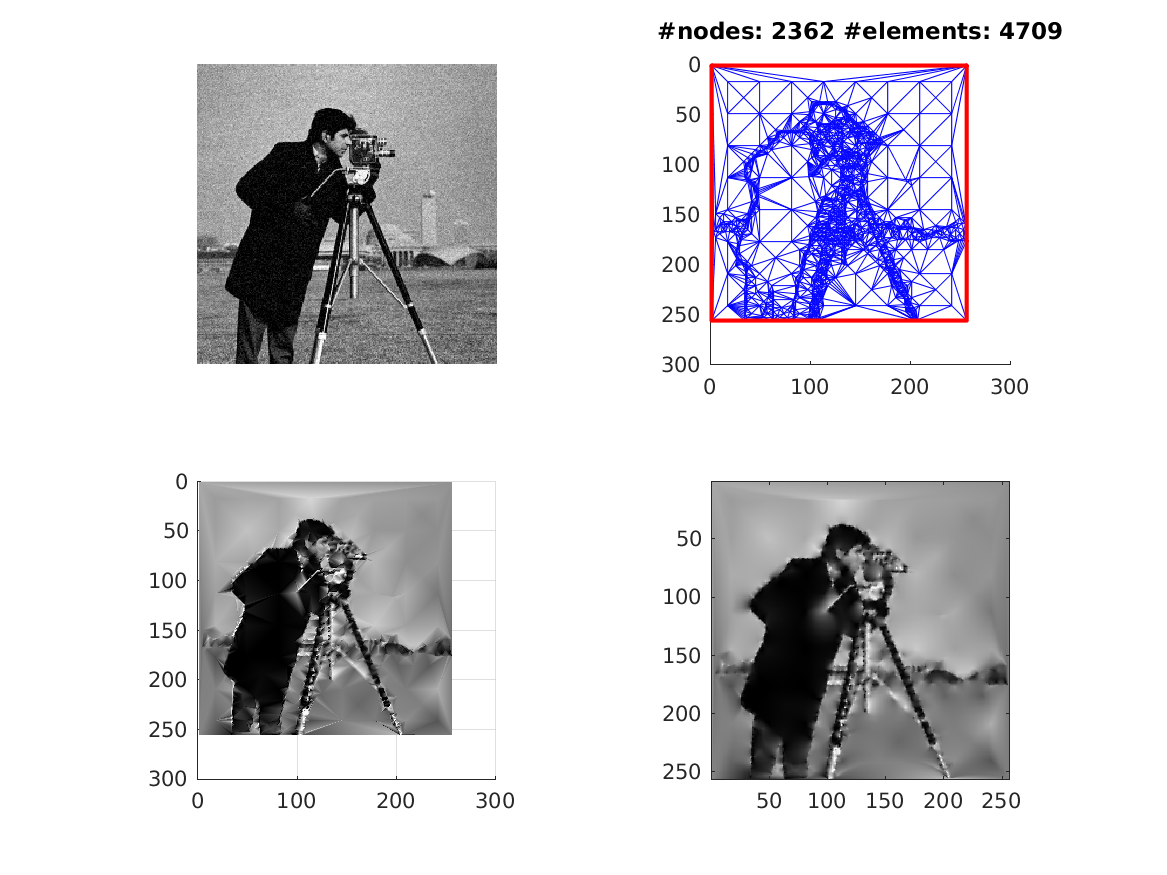
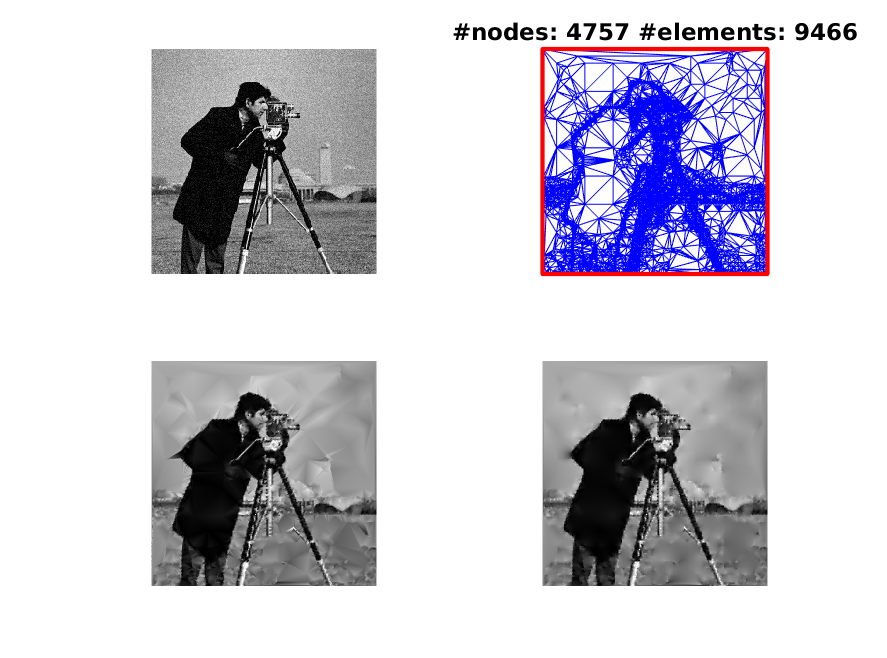
Worked on everything during meeting.

diff --git a/peronamalik/pm_tri.m b/peronamalik/pm_tri.m
@@ -1,40 +1,7 @@
-clear all; clc; close all;
+function [u_ani, A_iso, M, u_iso, g_ani, A_ani] = pm_tri(u, tri, p, edge, sigma, tau, g)
 
-addpath('../grids');
-addpath('../img');
-addpath('../quadrature');
-
-% Load image.
-U = mat2gray(imread('cameraman.tif'));
-U = imresize(U, 1);
-
-% Parameters for anisotropic diffusion.
-sigma = 0.00001;
-tau = 0.005;
-g = @(x) exp(-(x./2).^2);
-
-% Order of quadrature.
+% Quadrature rule.
 Nq = 1;
-
-% Grid generation.
-[nx1, nx2] = size(U);
-% [p, tri, edge] =  getSquareTri(nx1,nx2);
-% u = U(:);
-% [p, tri, edge] =  getSquareTri_swp(nx1, nx2, u);
-[p, tri, edge, p_idx] =  getVarigrid(U, 0.001, 50);
-
-% Image as vector.
-U = U(sub2ind(size(U), p_idx(:,1), p_idx(:,2)));
-u = U(:);
-
-%dx1 = 1/(nx1-1);
-%dx2 = 1/(nx2-1);
-
-% Verify grid.
-figure;
-% imtrisurf(tri, p, u);
-figure;
-triplot(tri, p(:,1), p(:,2));
 
 % Number of nodes.
 n = size(p,1);
@@ -74,20 +41,12 @@ for k = 1:N
             
             f_mass = @(x) (phi(:,i)' * [x; 1]) * (phi(:,j)' * [x; 1]);
             M(nid(i),nid(j)) = M(nid(i),nid(j)) + quadrature2D(p1,p2,p3,Nq,f_mass);
-            
-            % g_rhs = @(x) U(nid(j)) * (phi(:,i)' * [x; 1]) * (phi(:,j)' * [x; 1]);
-            % b(nid(i)) = b(nid(i)) +  quadrature2D(p1,p2,p3,Nq,g_rhs);
         end
     end
 end
 disp(['The loop took ' num2str(toc) 's.']);
 
 u_iso = (M + sigma * A_iso) \ (M*u);
-
-figure;
-imtrisurf(tri, p, u_iso);
-
-return
 
 % Compute the diffusion coefficients.
 d = zeros(N,2);
@@ -112,18 +71,16 @@ for k = 1:N
     phi(:,2) = lhs \ [0; 1; 0];
     phi(:,3) = lhs \ [0; 0; 1];
     
+    % See top of p. 228.
     for i = 1:3
         d(k,:) = d(k,:) + u_iso(nid(i)) * phi(1:2,i)';
     end
 end
 disp(['The loop took ' num2str(toc) 's.']);
 
-% Apply transfer function.
+% Apply transfer function to the norm of d.
 g_ani = g(sqrt(d(:,1).^2+d(:,2).^2));
 
-% Visualize the diffusion coeffs
-figure;
-% plotdiffcoeff(nx1, nx2, g_ani);
 
 disp('Started anisotropic diffusion.');
 tic;
@@ -153,12 +110,5 @@ for k = 1:N
     end
 end
 disp(['The loop took ' num2str(toc) 's.']);
-getVarigrid(U, 0.000001, 5000);
+
 u_ani = (M + tau * A_ani) \ (M*u);
-
-% Visualize the results
-figure;
-imtrisurf(tri, p, u_iso);
-
-figure;
-imtrisurf(tri, p, u_ani);

diff --git a/grids/getVarigrid_recursion.m b/grids/getVarigrid_recursion.m
@@ -1,18 +1,17 @@
-function p_idx = getVarigrid_recursion(U, idx1, idx2, minvar, cvc, depth, alldepth, maxdepth)
-
-u = U(idx1, idx2);
-p_idx = [];
-
-nx1 = length(idx1);
-nx2 = length(idx2);
+function p = getVarigrid_recursion(U, idx1, idx2, minvar, cvc, depth, alldepth, maxdepth)
 
 if depth == maxdepth
     warning('Reached maximal iteration depth.');
     return
 end
 
+% Get portion of U where to work on.
+U_portion = U(idx1, idx2);
+nx1 = length(idx1);
+nx2 = length(idx2);
+
 % Variance criterion.
-v = var(u(:));
+v = var(U_portion(:));
 
 % Corner value criterion.
 tl = U(idx1(1), idx2(1));
@@ -20,10 +19,12 @@ tr = U(idx1(1), idx2(end));
 bl = U(idx1(end), idx2(1));
 br = U(idx1(end), idx2(end));
 
-d = abs([tl - tr; tr - br; bl - bl; bl - tl; tl - br; tr - bl]);
+d = abs([tl - tr; tr - br; br - bl; bl - tl; tl - br; tr - bl]);
 
+% Make split decicion (include alldepth).
 split = (v > minvar) || (depth <= alldepth) || any(d > cvc);
 
+p = [];
 if split && (nx1 >= 2) && (nx2 >= 2)
     % Split indices into halfs.   
     idx1_split = floor(nx1/2);
@@ -37,11 +38,11 @@ if split && (nx1 >= 2) && (nx2 >= 2)
     idx2_mid = idx2_right(1);
     
     % Add midpoint of variance-rich area to list of points.
-    p_idx = vertcat(p_idx, [idx1_mid idx2_mid]);
+    p = vertcat(p, [idx1_mid idx2_mid]);
     
-    p_idx = vertcat(p_idx, getVarigrid_recursion(U, idx1_left, idx2_left, minvar, cvc, depth+1, alldepth, maxdepth));
-    p_idx = vertcat(p_idx, getVarigrid_recursion(U, idx1_left, idx2_right, minvar, cvc, depth+1, alldepth, maxdepth));
-    p_idx = vertcat(p_idx, getVarigrid_recursion(U, idx1_right, idx2_left, minvar, cvc, depth+1, alldepth, maxdepth));
-    p_idx = vertcat(p_idx, getVarigrid_recursion(U, idx1_right, idx2_right, minvar, cvc, depth+1, alldepth, maxdepth));
+    p = vertcat(p, getVarigrid_recursion(U, idx1_left, idx2_left, minvar, cvc, depth+1, alldepth, maxdepth));
+    p = vertcat(p, getVarigrid_recursion(U, idx1_left, idx2_right, minvar, cvc, depth+1, alldepth, maxdepth));
+    p = vertcat(p, getVarigrid_recursion(U, idx1_right, idx2_left, minvar, cvc, depth+1, alldepth, maxdepth));
+    p = vertcat(p, getVarigrid_recursion(U, idx1_right, idx2_right, minvar, cvc, depth+1, alldepth, maxdepth));
 end
 

diff --git a/peronamalik/pm_tri_pre.m b/peronamalik/pm_tri_pre.m
@@ -1,4 +1,4 @@
-function [u_iso, g_ani, u_ani] = pm_tri_pre(u, tri, p, edge, sigma, tau, g)
+function [u_ani, A_iso, M, u_iso, g_ani, A_ani] = pm_tri_pre(u, tri, p, edge, sigma, tau, g)
 
 % Number of nodes.
 n = size(p,1);
@@ -6,9 +6,10 @@ n = size(p,1);
 N = size(tri, 1);
 
 % Precompute basis functions and quadrature for later use.
-phi = zeros(3, 3, N);
-a = zeros(N, 1);
-m = ones(N, 3);
+phi = zeros(3, 3, N); % Coefficients of phi: phi(coeff,node,elem).
+a = zeros(N, 1); % Triangle areas.
+m = ones(N, 3); % Triangle midpoints + ones in the right column.
+d = zeros(N,2); % Local gradients.
 
 disp('Precomputations.');
 tic;
@@ -36,7 +37,7 @@ for k = 1:N
 end
 disp(['The loop took ' num2str(toc) 's.']);
 
-% Initialize linear system.
+% Initialize linear systems.
 M = sparse(n,n); % Mass matrix.
 A_iso = sparse(n,n); % Isotropic stiffness matrix.
 A_ani = sparse(n,n); % Anisotropic stiffness matrix.
@@ -60,9 +61,6 @@ disp(['The loop took ' num2str(toc) 's.']);
 
 u_iso = (M + sigma * A_iso) \ (M*u);
 
-% Compute the diffusion coefficients.
-d = zeros(N,2);
-
 disp('Started computation of diffusion coefficients.');
 tic;
 
@@ -70,13 +68,14 @@ tic;
 for k = 1:N
     nid = tri(k,:);
     
+    % See top of p. 228.
     for i = 1:3
         d(k,:) = d(k,:) + u_iso(nid(i)) * phi(1:2,i,k)';
     end
 end
 disp(['The loop took ' num2str(toc) 's.']);
 
-% Apply transfer function.
+% Apply transfer function to the norm of d.
 g_ani = g(sqrt(d(:,1).^2+d(:,2).^2));
 
 disp('Started anisotropic diffusion.');

diff --git a/grids/getSquareTri_swp.m b/grids/getSquareTri_swp.m
@@ -1,23 +1,23 @@
 function [p, tri, edge] = getSquareTri_swp(U)
 
 u = U(:);
-[n1, n2] = size(U);
+nx = size(U);
 
-x1 = 1:n1;
-x2 = 1:n2;
+x1 = 1:nx(1);
+x2 = 1:nx(2);
 
 [X1_const, X2_const] = meshgrid(x1, x2);
 
 p = [X1_const(:), X2_const(:)];
 tri = [];
 
-for i = 0:n1-2
-    for j = 0:n2-2
-        % Square corners:
-        tl = (i)*n2 + (j) + 1;
-        bl = (i+1)*n2 + (j) + 1;
-        tr = (i)*n2 + (j+1) + 1;
-        br = (i+1)*n2 + (j+1) + 1;
+for i = 0:nx(1)-2
+    for j = 0:nx(2)-2
+        % Square's corners:
+        tl = (i)*nx(2) + (j) + 1;
+        bl = (i+1)*nx(2) + (j) + 1;
+        tr = (i)*nx(2) + (j+1) + 1;
+        br = (i+1)*nx(2) + (j+1) + 1;
         
         if abs(u(tl) - u(br)) > abs(u(tr) - u(bl))
             tri(end+1,:) = [tl bl tr];
@@ -31,12 +31,12 @@ end
 
 idx_diff = @(idx) [idx(1:end-1); idx(2:end)];
 
-edge_n = idx_diff(1:n2)';
-edge_s = idx_diff((n1-1)*n2+1:n1*n2)';
-edge_w = idx_diff((0:n1-1)*n2+1)';
-edge_e = idx_diff((1:n1)*n2)';
+edge_n = idx_diff(1:nx(2))';
+edge_s = idx_diff((nx(1)-1)*nx(2)+1:nx(1)*nx(2))';
+edge_w = idx_diff((nx(1)-1:-1:0)*nx(2)+1)';
+edge_e = idx_diff((1:nx(1))*nx(2))';
 
-edge = [edge_n; edge_s; edge_w; edge_e];
+edge = [edge_n; edge_e; edge_s; edge_w];
 
 end
 

diff --git a/img/imdiffcoeff.m b/img/imdiffcoeff.m
@@ -1,0 +1,20 @@
+function imdiffcoeff(g_ani, nx)
+% This function visualizes the g_ani on a *structured grid only*.
+
+% The odd index gets all triangles with top left corner as member.
+odd = 1:2:length(g_ani);
+% The even index gets all triangles with bottom right corner as member.
+even = odd + 1;
+
+% Take the average of the two triangles.
+g_square = 0.5 * (g_ani(odd) + g_ani(even));
+
+% Go back to rectangular image format.
+G = reshape(g_square, nx(1)-1, nx(2)-1);
+
+% Visualize.
+imagesc(G);
+view(-90,-90)
+axis off tight square
+
+end

diff --git a/peronamalik/test_pm_tri.m b/peronamalik/test_pm_tri.m
@@ -22,7 +22,7 @@ g = @(x) exp(-(10*x).^2);
 u = maskApply(U, p);
 
 % Run PM.
-[u_ani, ~, ~, u_iso, ~, ~] = pm_tri_pre(u, tri, p, edge, sigma, tau, g);
+[u_ani, ~, ~, u_iso, ~, ~] = pm_tri(u, tri, p, edge, sigma, tau, g);
 
 % Plot solution.
 subplot(2,2,1);
@@ -35,4 +35,4 @@ subplot(2,2,4);
 iminterpsurf(tri, p, u_ani, size(U));
 
 % Write results to file.
-print('../out/test_pm_tri_pre','-dpng');
+print('../out/test_pm_tri','-dpng');

diff --git a/grids/getSquareTri.m b/grids/getSquareTri.m
@@ -19,9 +19,9 @@ idx_diff = @(idx) [idx(1:end-1); idx(2:end)];
 
 edge_n = idx_diff(1:nx(2))';
 edge_s = idx_diff((nx(1)-1)*nx(2)+1:nx(1)*nx(2))';
-edge_w = idx_diff((0:nx(1)-1)*nx(2)+1)';
+edge_w = idx_diff((nx(1)-1:-1:0)*nx(2)+1)';
 edge_e = idx_diff((1:nx(1))*nx(2))';
 
-edge = [edge_n; edge_s; edge_w; edge_e];
+edge = [edge_n; edge_e; edge_s; edge_w];
 
 end

diff --git a/grids/getGradgrid.m b/grids/getGradgrid.m
@@ -29,7 +29,17 @@ mask(1,end) = 1;
 mask(end,1) = 1;
 mask(end,end) = 1;
 
-[p, tri, edge] = maskDelaunay(mask, size(U));
+[nx1, nx2] = size(U);
+x1 = 1:nx1;
+x2 = 1:nx2;
+[X2, X1] = meshgrid(x1, x2);
+x(:,1) =  X1(mask);
+x(:,2) =  X2(mask);
+
+dt = delaunayTriangulation(x);
+p = dt.Points;
+tri = dt.ConnectivityList;
+edge = freeBoundary(dt);
 
 end
 

diff --git a/grids/test_getVarigrid.m b/grids/test_getVarigrid.m
@@ -5,7 +5,7 @@ addpath('../img');
 % Load image.
 U = loadCameraman(1, 0.05);
 
-[p tri edge] =  getVarigrid(U, 1, 0.003, 0.2, 3, 50);
+[p, tri, edge] =  getVarigrid(U, 1, 0.003, 0.05, 3, 50);
 u = maskApply(U,p);
 
 subplot(2,2,1);

diff --git a/grids/test_getSquareTri.m b/grids/test_getSquareTri.m
@@ -3,7 +3,7 @@ clear all; clc; close all;
 addpath('../img');
 
 % Load image.
-U = loadCameraman(1, 0.05);
+U = loadCameraman(0.5, 0.05);
 
 [p tri edge] =  getSquareTri(size(U));
 u = maskApply(U,p);

diff --git a/grids/test_getSquareTri_swp.m b/grids/test_getSquareTri_swp.m
@@ -3,7 +3,7 @@ clear all; clc; close all;
 addpath('../img');
 
 % Load image.
-U = loadCameraman(1, 0.05);
+U = loadCameraman(0.1, 0.05);
 
 [p, tri, edge] =  getSquareTri_swp(U);
 u = maskApply(U,p);

diff --git a/poisson2d/poisson2d_dirichlet_tet.m b/poisson2d/poisson2d_dirichlet_tet.m
@@ -9,7 +9,7 @@ nx1 = 100;
 nx2 = 100;
 dx1 = 1/(nx1-1);
 dx2 = 1/(nx2-1);
-[p, tet, edge] = getUniform(nx1, nx2);
+[p, tet, edge] = getSquareTet(nx1, nx2);
 
 % Boundary conditions.
 u = @(X) 1;
